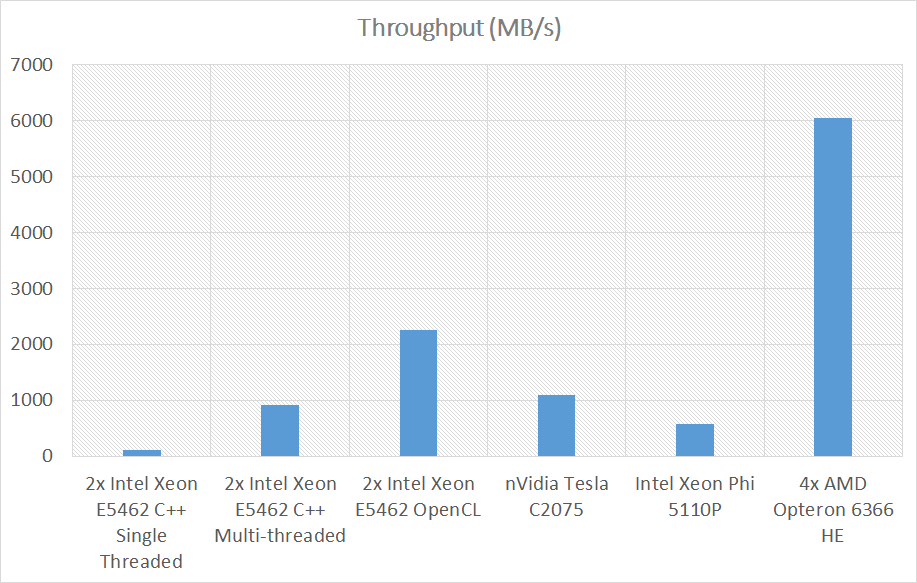
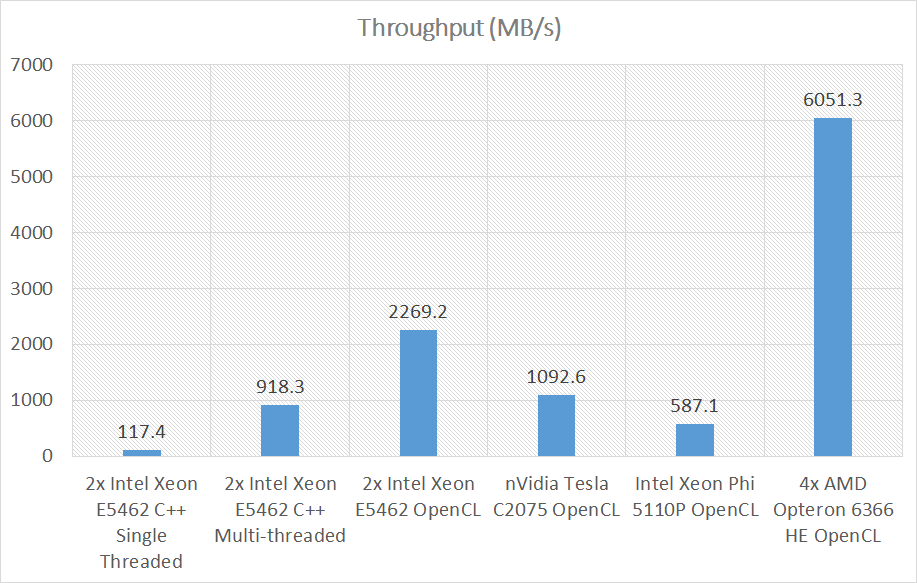
Refactoring of graphs for dissertation and presentation

diff --git a/Presentation/presentation.tex b/Presentation/presentation.tex
@@ -18,7 +18,9 @@
         \item Need fast, but efficient, method of filtering.
         \item Data parallel problem, each document independent from one another.
     \end{itemize}
-    Classification Method
+}
+\frame{
+    \frametitle{Classification Method}
     \begin{itemize}
         \item Na{\"{\i}}ve Bayes Classifier for plain text documents.
         \item Two classes, A or B. Think spam or not spam.
@@ -27,11 +29,12 @@
         \item Documents with a high enough score are given class A, otherwise B.
     \end{itemize}
 }
-\subsection{Previous system setup}
+\subsection{Prior Work}
 \frame{
-    \frametitle{Previous system setup}
+    \frametitle{Prior Work}
     \begin{itemize}
-        \item CPU parses documents in a C++ application.
+        \item Parser for plain text documents documents using a C++ application.
+        \item Parser runs on a CPU.
         \item Scoring can be off-loaded to FPGA.
         \item Parsing is bottleneck, 427MB/s. FPGA scores at 749MB/s.
         \item Work looking into parsing and scoring on FPGA.
@@ -57,7 +60,6 @@
     \begin{itemize}
         \item Host code reads in documents and sets up OpenCL environment.
         \item Device given documents and profile of terms.
-        \item Device given optional bloom filter, to reduce trips to memory.
         \item Both scoring only, and parsing and scoring kernels.
         \item Host reads back scores from target device.
         \item Document classification output based on score.
@@ -81,14 +83,13 @@
     \begin{itemize}
         \item Use a pre-parsed collection of document terms for TREC collection.
         \item OpenCL kernel scores this collection based on profile.
-        \item Bloom filter checks to see if term might be in profile.
         \item Scores returned back to host.
     \end{itemize}
 }
 \subsection{Results}
 \frame{
     \frametitle{Scoring Results}
-    \includegraphics[width=\linewidth,height=\textheight,keepaspectratio]{../Dissertation/images/scoringOnlyBest.png}
+    \includegraphics[width=\linewidth,height=\textheight,keepaspectratio]{images/scoringOnlyBest.png}
 }
 \subsection{Discussion}
 \frame{
@@ -97,8 +98,8 @@
         \item AMD CPU system comes out top. 64 cores at 1.8GHz up to 2.3GHz
         \item Tesla C2075 exceeds 1GB/s. CPU parser would be bottleneck still.
         \item OpenCL on CPU improves performance compared to C++ version.
-        \item CPU results only for reference, some part of system would need
-        to be parsing.
+        \item CPU results for reference only. The CPU would need to also be
+        parsing documents so actual scoring throughput would be lower.
         \item Confirms parser and scorer on one device required.
     \end{itemize}
 }
@@ -109,14 +110,13 @@
         \item Use plain text documents, TREC collection.
         \item OpenCL kernel parses documents as well as scoring them based on
         given profile.
-        \item Bloom filter checks to see if term might be in profile.
         \item Scores returned back to host.
     \end{itemize}
 }
 \subsection{Results}
 \frame{
     \frametitle{Parsing and Scoring Results}
-    \includegraphics[width=\linewidth,height=\textheight,keepaspectratio]{../Dissertation/images/parsingScoringBest.png}
+    \includegraphics[width=\linewidth,height=\textheight,keepaspectratio]{images/parsingScoringBest.png}
 }
 \subsection{Discussion}
 \frame{
@@ -127,6 +127,9 @@
         to single Phi.
         \item Dual CPU and GPU system also has near-linear scaling.
         \item All dual device results improve on previous bottleneck of 427MB/s.
+        \item 1GB/s result is 8Gbit/s and so could parse 10Gbit/s Ethernet.
+        \item With an average throughput of Ethernet of around 30\%, this system
+        could parse, in real time, nearly 30Gbit/s.
     \end{itemize}
 }
 \section{Conclusion}

diff --git a/Dissertation/includes/evaluation.tex b/Dissertation/includes/evaluation.tex
@@ -236,19 +236,19 @@ Device & Test & Time (ms) & Throughput (MB/s)\\
 & Bloom Filter All Hits & 298 & 791.9 \\
 & Bloom Filter No Hits & 104 & 2269.2 \\
 \hline
-\multirow{4}{*}{nVidia Tesla C2075}
+\multirow{4}{*}{nVidia Tesla C2075 OpenCL}
 & No Bloom Filter & 258 & 914.7 \\
 & Bloom Filter & 232 & 1017.2 \\
 & Bloom Filter All Hits & 294 & 802.7 \\
 & Bloom Filter No Hits & 216 & 1092.6 \\
 \hline
-\multirow{4}{*}{Intel Xeon Phi 5110P}
+\multirow{4}{*}{Intel Xeon Phi 5110P OpenCL}
 & No Bloom Filter & 381 & 619.4 \\
 & Bloom Filter & 409 & 577 \\
 & Bloom Filter All Hits & 456 & 517.5 \\
 & Bloom Filter No Hits & 402 & 587.1 \\
 \hline
-\multirow{4}{*}{4x AMD Opteron 6366 HE}
+\multirow{4}{*}{4x AMD Opteron 6366 HE OpenCL}
 & No Bloom Filter & 87 & 2712.6 \\
 & Bloom Filter & 50 & 4720 \\
 & Bloom Filter All Hits & 96 & 2458.3 \\
@@ -285,7 +285,8 @@ and scoring, in an attempt to remove the CPU parsing bottleneck.
 
 Table \ref{table:parsingScoring} contains the results from the parsing and
 scoring experiments. The results are the average time and throughput of the
-system over the twelve profiles.
+system over the twelve profiles. All experiment runs involved OpenCL without
+using any of the pre-existing C++ code.
 
 Each profile run is repeated ten times to improve the accuracy and reliability
 of the timing mechanism. The exceptions to this rule are the Intel CPU and
